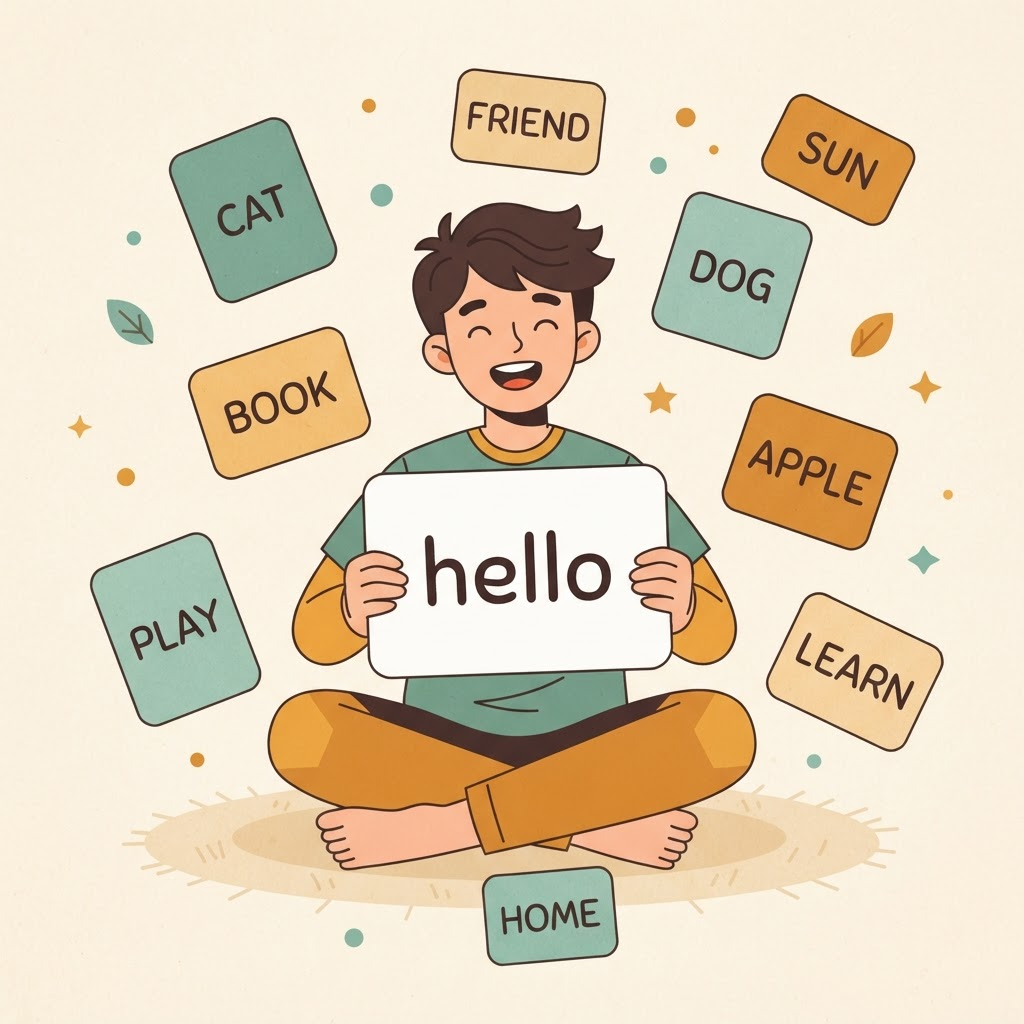
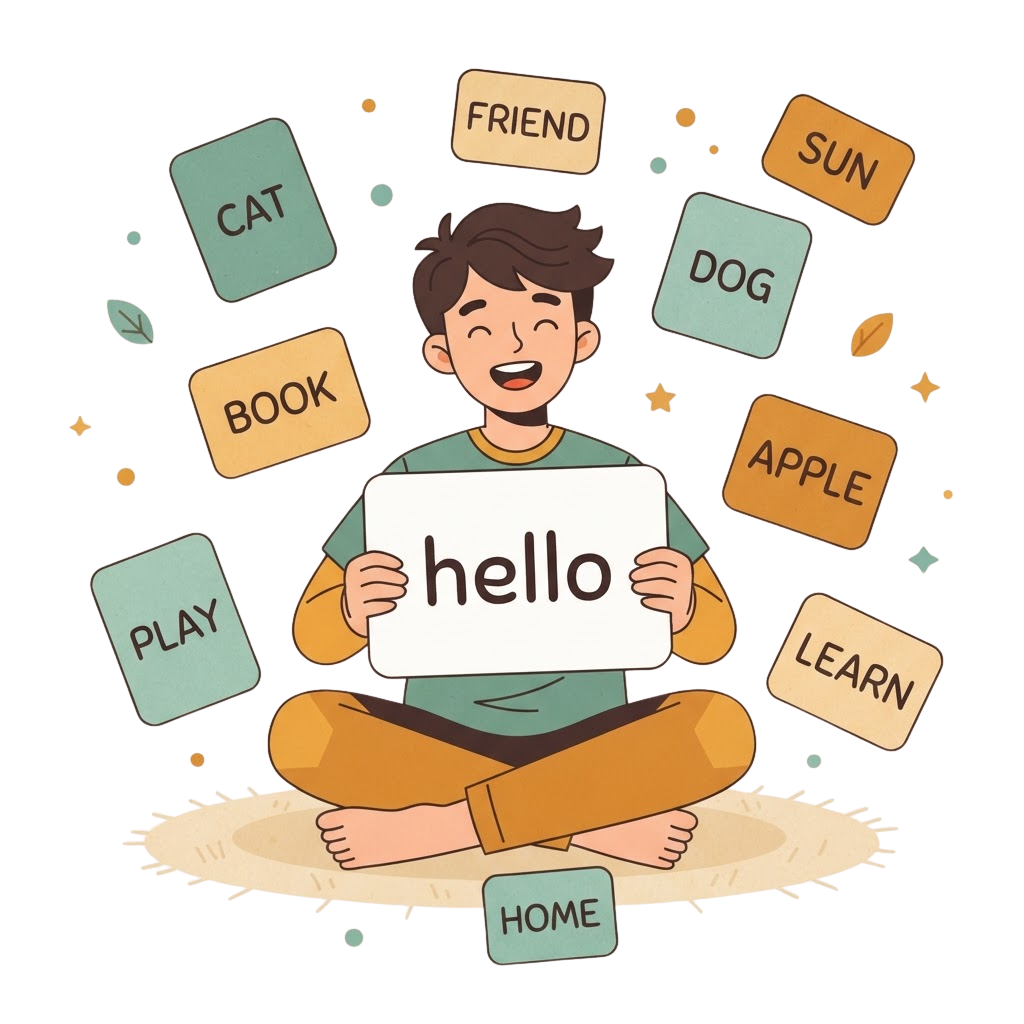
Add animation for hero image

diff --git a/apps/web/features/home/components/hero-illustration/WordCard.tsx b/apps/web/features/home/components/hero-illustration/WordCard.tsx
@@ -1,0 +1,147 @@
+"use client";
+
+import { useEffect, useRef, useState } from "react";
+import {
+  animate,
+  motion,
+  useMotionValue,
+  useSpring,
+  useTransform,
+  type Variants,
+} from "motion/react";
+
+import { useHeroParallax } from "./HeroParallaxContext";
+import type { CardColor, WordCardData } from "./cards-data";
+
+const COLOR_CLASSES: Record<CardColor, string> = {
+  "chart-1": "bg-chart-1 text-primary-foreground",
+  "chart-2": "bg-chart-2 text-accent-foreground",
+  "chart-3": "bg-chart-3 text-primary-foreground",
+  "chart-4": "bg-chart-4 text-primary-foreground",
+  "chart-5": "bg-chart-5 text-accent-foreground",
+};
+
+const GLOW_CLASSES: Record<CardColor, string> = {
+  "chart-1": "bg-chart-1",
+  "chart-2": "bg-chart-2",
+  "chart-3": "bg-chart-3",
+  "chart-4": "bg-chart-4",
+  "chart-5": "bg-chart-5",
+};
+
+// Card starts hidden, collapsed at the boy's center (z-index below him),
+// then springs out to its resting spot and settles into a gentle float.
+const flightVariants: Variants = {
+  hidden: { x: 0, y: 0, opacity: 0, scale: 0.6, rotate: 0 },
+  visible: (d: WordCardData) => ({
+    x: d.finalX,
+    y: d.finalY,
+    opacity: 1,
+    scale: 1,
+    rotate: d.rotation,
+    transition: {
+      type: "spring",
+      stiffness: 240,
+      damping: 16,
+      mass: 0.8,
+      delay: d.delay,
+    },
+  }),
+  floating: (d: WordCardData) => ({
+    x: d.finalX,
+    y: [d.finalY, d.finalY - (7 + d.depth * 3), d.finalY],
+    rotate: [d.rotation - 2, d.rotation + 2, d.rotation - 2],
+    opacity: 1,
+    scale: 1,
+    transition: {
+      y: { duration: 3.2 + d.depth, repeat: Infinity, ease: "easeInOut" },
+      rotate: { duration: 4.4 + d.depth, repeat: Infinity, ease: "easeInOut" },
+    },
+  }),
+};
+
+export function WordCard(data: WordCardData) {
+  const { text, color, depth } = data;
+  const [phase, setPhase] = useState<"visible" | "floating">("visible");
+  const { mouseX, mouseY } = useHeroParallax();
+
+  // Hover: tilt toward the cursor + a small lift.
+  const tilt = useMotionValue(0);
+  const lift = useMotionValue(0);
+  const springTilt = useSpring(tilt, { stiffness: 260, damping: 20 });
+  const springLift = useSpring(lift, { stiffness: 260, damping: 20 });
+
+  // Occasional playful wiggle, independent per card.
+  const wiggle = useMotionValue(0);
+
+  const parallaxX = useTransform(mouseX, (v) => v * 26 * depth);
+  const parallaxY = useTransform(mouseY, (v) => v * 26 * depth);
+
+  const x = useTransform([parallaxX, wiggle], ([px, w]) => (px as number) + (w as number) * 3);
+  const y = useTransform(
+    [parallaxY, springLift, wiggle],
+    ([py, l, w]) => (py as number) + (l as number) + (w as number) * -5,
+  );
+  const rotate = useTransform([springTilt, wiggle], ([t, w]) => (t as number) + (w as number) * 6);
+
+  const wiggleTimer = useRef<ReturnType<typeof setTimeout>>(undefined);
+
+  useEffect(() => {
+    function scheduleWiggle() {
+      const delayMs = 4000 + Math.random() * 4000;
+      wiggleTimer.current = setTimeout(() => {
+        animate(wiggle, [0, 1, -0.6, 0], { duration: 0.7, ease: "easeInOut" });
+        scheduleWiggle();
+      }, delayMs);
+    }
+    scheduleWiggle();
+    return () => clearTimeout(wiggleTimer.current);
+  }, [wiggle]);
+
+  function handleMouseMove(e: React.MouseEvent<HTMLDivElement>) {
+    const rect = e.currentTarget.getBoundingClientRect();
+    const relX = (e.clientX - rect.left) / rect.width - 0.5;
+    tilt.set(relX * 18);
+  }
+
+  function handleHoverEnd() {
+    tilt.set(0);
+    lift.set(0);
+  }
+
+  return (
+    <motion.div
+      className="absolute left-1/2 top-1/2 z-10 -ml-14 -mt-8 w-28"
+      custom={data}
+      initial="hidden"
+      animate={phase}
+      variants={flightVariants}
+      onAnimationComplete={(definition) => {
+        if (definition === "visible") setPhase("floating");
+      }}
+    >
+      {/* Glow trail: blooms as the card flies out, fades once it settles */}
+      <motion.div
+        aria-hidden
+        className={`absolute inset-0 -z-10 rounded-full opacity-40 blur-xl ${GLOW_CLASSES[color]}`}
+        initial={{ opacity: 0, scale: 0.4 }}
+        animate={
+          phase === "visible"
+            ? { opacity: 0.45, scale: 1.5 }
+            : { opacity: 0, scale: 1.8 }
+        }
+        transition={{ duration: 0.55, delay: data.delay + 0.05 }}
+      />
+
+      <motion.div
+        onMouseMove={handleMouseMove}
+        onHoverEnd={handleHoverEnd}
+        whileHover={{ scale: 1.12 }}
+        style={{ x, y, rotate }}
+        className={`flex h-14 w-28 cursor-default items-center justify-center rounded-2xl text-sm font-semibold tracking-wide shadow-md transition-shadow duration-200 hover:shadow-2xl ${COLOR_CLASSES[color]}`}
+      >
+        {text}
+      </motion.div>
+    </motion.div>
+  );
+}

diff --git a/apps/web/features/home/components/hero-illustration/HeroIllustration.tsx b/apps/web/features/home/components/hero-illustration/HeroIllustration.tsx
@@ -1,0 +1,81 @@
+"use client";
+
+import { useEffect, useRef, useState } from "react";
+import { motion, useMotionValue, useSpring } from "motion/react";
+
+import { HeroParallaxProvider } from "./HeroParallaxContext";
+import { WordCard } from "./WordCard";
+import { BoyIllustration } from "./BoyIllustration";
+import { HERO_WORD_CARDS } from "./cards-data";
+
+// All card offsets in cards-data.ts were hand-placed against this
+// reference stage size. Everything below scales as one unit to match
+// however small the container actually renders (phones included),
+// instead of the cards' fixed pixel offsets overflowing a narrow screen.
+const STAGE_SIZE = 420;
+
+export function HeroIllustration() {
+  const containerRef = useRef<HTMLDivElement>(null);
+  const [scale, setScale] = useState(1);
+
+  const rawX = useMotionValue(0);
+  const rawY = useMotionValue(0);
+  const mouseX = useSpring(rawX, { stiffness: 60, damping: 20, mass: 0.6 });
+  const mouseY = useSpring(rawY, { stiffness: 60, damping: 20, mass: 0.6 });
+
+  useEffect(() => {
+    const el = containerRef.current;
+    if (!el) return;
+    const observer = new ResizeObserver(([entry]) => {
+      setScale(Math.min(entry.contentRect.width / STAGE_SIZE, 1));
+    });
+    observer.observe(el);
+    return () => observer.disconnect();
+  }, []);
+
+  function handleMouseMove(e: React.MouseEvent<HTMLDivElement>) {
+    const rect = containerRef.current?.getBoundingClientRect();
+    if (!rect) return;
+    rawX.set((e.clientX - rect.left) / rect.width - 0.5);
+    rawY.set((e.clientY - rect.top) / rect.height - 0.5);
+  }
+
+  function handleMouseLeave() {
+    rawX.set(0);
+    rawY.set(0);
+  }
+
+  return (
+    <div
+      ref={containerRef}
+      onMouseMove={handleMouseMove}
+      onMouseLeave={handleMouseLeave}
+      className="relative mx-auto aspect-square w-full max-w-[420px] select-none"
+    >
+      <div
+        className="absolute left-1/2 top-1/2"
+        style={{
+          width: STAGE_SIZE,
+          height: STAGE_SIZE,
+          transform: `translate(-50%, -50%) scale(${scale})`,
+        }}
+      >
+        <HeroParallaxProvider value={{ mouseX, mouseY }}>
+          {/* Soft pulsing light behind the boy */}
+          <motion.div
+            aria-hidden
+            className="absolute left-1/2 top-1/2 z-0 h-[70%] w-[70%] -translate-x-1/2 -translate-y-1/2 rounded-full bg-primary/25 blur-3xl"
+            animate={{ scale: [1, 1.03, 1], opacity: [0.5, 0.75, 0.5] }}
+            transition={{ duration: 5, repeat: Infinity, ease: "easeInOut" }}
+          />
+
+          {HERO_WORD_CARDS.map((card) => (
+            <WordCard key={card.id} {...card} />
+          ))}
+
+          <BoyIllustration />
+        </HeroParallaxProvider>
+      </div>
+    </div>
+  );
+}

diff --git a/apps/web/features/home/components/Hero.tsx b/apps/web/features/home/components/Hero.tsx
@@ -1,10 +1,10 @@
-import Image from "next/image";
 import Link from "next/link";
 import { ArrowRight, Flame, Gamepad2, Sparkles } from "lucide-react";
 import { Badge } from "@/components/ui/badge";
 import { Button } from "@/components/ui/button";
 import { Reveal } from "@/shared/components/motion/Reveal";
 import { Stagger, StaggerItem } from "@/shared/components/motion/Stagger";
+import { HeroIllustration } from "./hero-illustration/HeroIllustration";
 
 const stats = [
   { value: "12k+", label: "Learners studying daily" },
@@ -81,21 +81,12 @@ export function Hero() {
         </Stagger>
 
         <Reveal variant="fade-left" delay={0.15} className="relative">
-          <div className="relative overflow-hidden rounded-3xl bg-secondary ring-1 ring-foreground/10">
-            <Image
-              src="/images/hero-flashcards.png"
-              alt="Illustration of a learner holding an English flashcard surrounded by floating vocabulary cards"
-              width={900}
-              height={900}
-              priority
-              className="h-auto w-full"
-            />
-          </div>
+          <HeroIllustration />
 
           <Reveal
             variant="scale-in"
             delay={0.55}
-            className="absolute -left-3 top-8 sm:-left-6"
+            className="absolute -left-4 sm:-left-6"
           >
             <div className="animate-float-soft flex items-center gap-2 rounded-2xl bg-card px-3 py-2 shadow-lg ring-1 ring-foreground/10">
               <span className="flex size-8 items-center justify-center rounded-xl bg-accent text-accent-foreground">
@@ -109,19 +100,6 @@ export function Hero() {
                   Keep it up!
                 </span>
               </div>
-            </div>
-          </Reveal>
-
-          <Reveal
-            variant="scale-in"
-            delay={0.7}
-            className="absolute -right-2 bottom-10 sm:-right-5"
-          >
-            <div className="animate-float-soft rounded-2xl bg-card px-4 py-3 shadow-lg ring-1 ring-foreground/10">
-              <p className="font-display text-sm font-semibold">mitigate</p>
-              <p className="text-xs text-muted-foreground">
-                /ˈmɪtɪɡeɪt/ · verb
-              </p>
             </div>
           </Reveal>
         </Reveal>

diff --git a/apps/web/features/home/components/hero-illustration/cards-data.ts b/apps/web/features/home/components/hero-illustration/cards-data.ts
@@ -1,0 +1,28 @@
+export type CardColor = "chart-1" | "chart-2" | "chart-3" | "chart-4" | "chart-5";
+
+export interface WordCardData {
+  id: string;
+  text: string;
+  finalX: number;
+  finalY: number;
+  rotation: number;
+  delay: number;
+  color: CardColor;
+  // Relative "closeness to viewer" (0.5-1). Drives parallax intensity and
+  // gives each card a slightly different floating rhythm.
+  depth: number;
+}
+
+// A hand-placed ring around the boy (container is treated as a 420x420
+// stage, positions are px offsets from its center).
+export const HERO_WORD_CARDS: WordCardData[] = [
+  { id: "cat", text: "CAT", finalX: -150, finalY: -130, rotation: -8, delay: 0, color: "chart-1", depth: 1 },
+  { id: "friend", text: "FRIEND", finalX: -8, finalY: -178, rotation: 4, delay: 0.11, color: "chart-2", depth: 0.6 },
+  { id: "sun", text: "SUN", finalX: 145, finalY: -140, rotation: 10, delay: 0.22, color: "chart-2", depth: 0.9 },
+  { id: "dog", text: "DOG", finalX: 168, finalY: -30, rotation: -6, delay: 0.33, color: "chart-1", depth: 0.7 },
+  { id: "apple", text: "APPLE", finalX: 162, finalY: 92, rotation: 8, delay: 0.44, color: "chart-2", depth: 1 },
+  { id: "learn", text: "LEARN", finalX: 130, finalY: 188, rotation: -5, delay: 0.55, color: "chart-5", depth: 0.6 },
+  { id: "home", text: "HOME", finalX: -8, finalY: 218, rotation: 6, delay: 0.66, color: "chart-1", depth: 0.8 },
+  { id: "play", text: "PLAY", finalX: -170, finalY: 105, rotation: -9, delay: 0.77, color: "chart-1", depth: 0.9 },
+  { id: "book", text: "BOOK", finalX: -158, finalY: -18, rotation: 7, delay: 0.88, color: "chart-2", depth: 0.7 },
+];

diff --git a/apps/web/features/home/components/hero-illustration/BoyIllustration.tsx b/apps/web/features/home/components/hero-illustration/BoyIllustration.tsx
@@ -1,0 +1,29 @@
+import Image from "next/image";
+
+interface BoyIllustrationProps {
+  src?: string;
+}
+
+// Rendered below the word cards (z-5 < WordCard's z-10) so the cards sit
+// on top of him. Expects a transparent-background cutout — no cards
+// baked into the artwork, since those are rendered separately as
+// <WordCard> components.
+export function BoyIllustration({ src = "/images/hero-flashcards-1.png" }: BoyIllustrationProps) {
+  return (
+    <div className="absolute left-1/2 top-1/2 z-5 w-[90%] -translate-x-1/2 -translate-y-1/2">
+      <Image
+        src={src}
+        alt="Illustration of a smiling boy holding a flashcard that says hello"
+        width={716}
+        height={974}
+        priority
+        // Next's built-in PNG optimizer quantizes to a palette and drops
+        // this image's alpha channel entirely (verified: source has real
+        // transparency, the /_next/image output doesn't) — skip it so the
+        // transparent cutout renders as-is.
+        unoptimized
+        className="h-auto w-full drop-shadow-xl"
+      />
+    </div>
+  );
+}

diff --git a/apps/web/features/home/components/hero-illustration/HeroParallaxContext.tsx b/apps/web/features/home/components/hero-illustration/HeroParallaxContext.tsx
@@ -1,0 +1,35 @@
+"use client";
+
+import { createContext, useContext } from "react";
+import type { MotionValue } from "motion/react";
+
+interface HeroParallaxContextValue {
+  // Normalized pointer position relative to the illustration's center,
+  // roughly -0.5..0.5 on each axis.
+  mouseX: MotionValue<number>;
+  mouseY: MotionValue<number>;
+}
+
+const HeroParallaxContext = createContext<HeroParallaxContextValue | null>(null);
+
+export function HeroParallaxProvider({
+  value,
+  children,
+}: {
+  value: HeroParallaxContextValue;
+  children: React.ReactNode;
+}) {
+  return (
+    <HeroParallaxContext.Provider value={value}>
+      {children}
+    </HeroParallaxContext.Provider>
+  );
+}
+
+export function useHeroParallax() {
+  const ctx = useContext(HeroParallaxContext);
+  if (!ctx) {
+    throw new Error("useHeroParallax must be used within <HeroIllustration>");
+  }
+  return ctx;
+}

diff --git a/apps/web/middleware.ts b/apps/web/middleware.ts
@@ -127,5 +127,5 @@ export async function middleware(request: NextRequest) {
 }
 
 export const config = {
-  matcher: ["/((?!_next/static|_next/image|favicon.ico|api).*)"],
+  matcher: ["/((?!_next/static|_next/image|favicon.ico|api|.*\\..*).*)"],
 };
